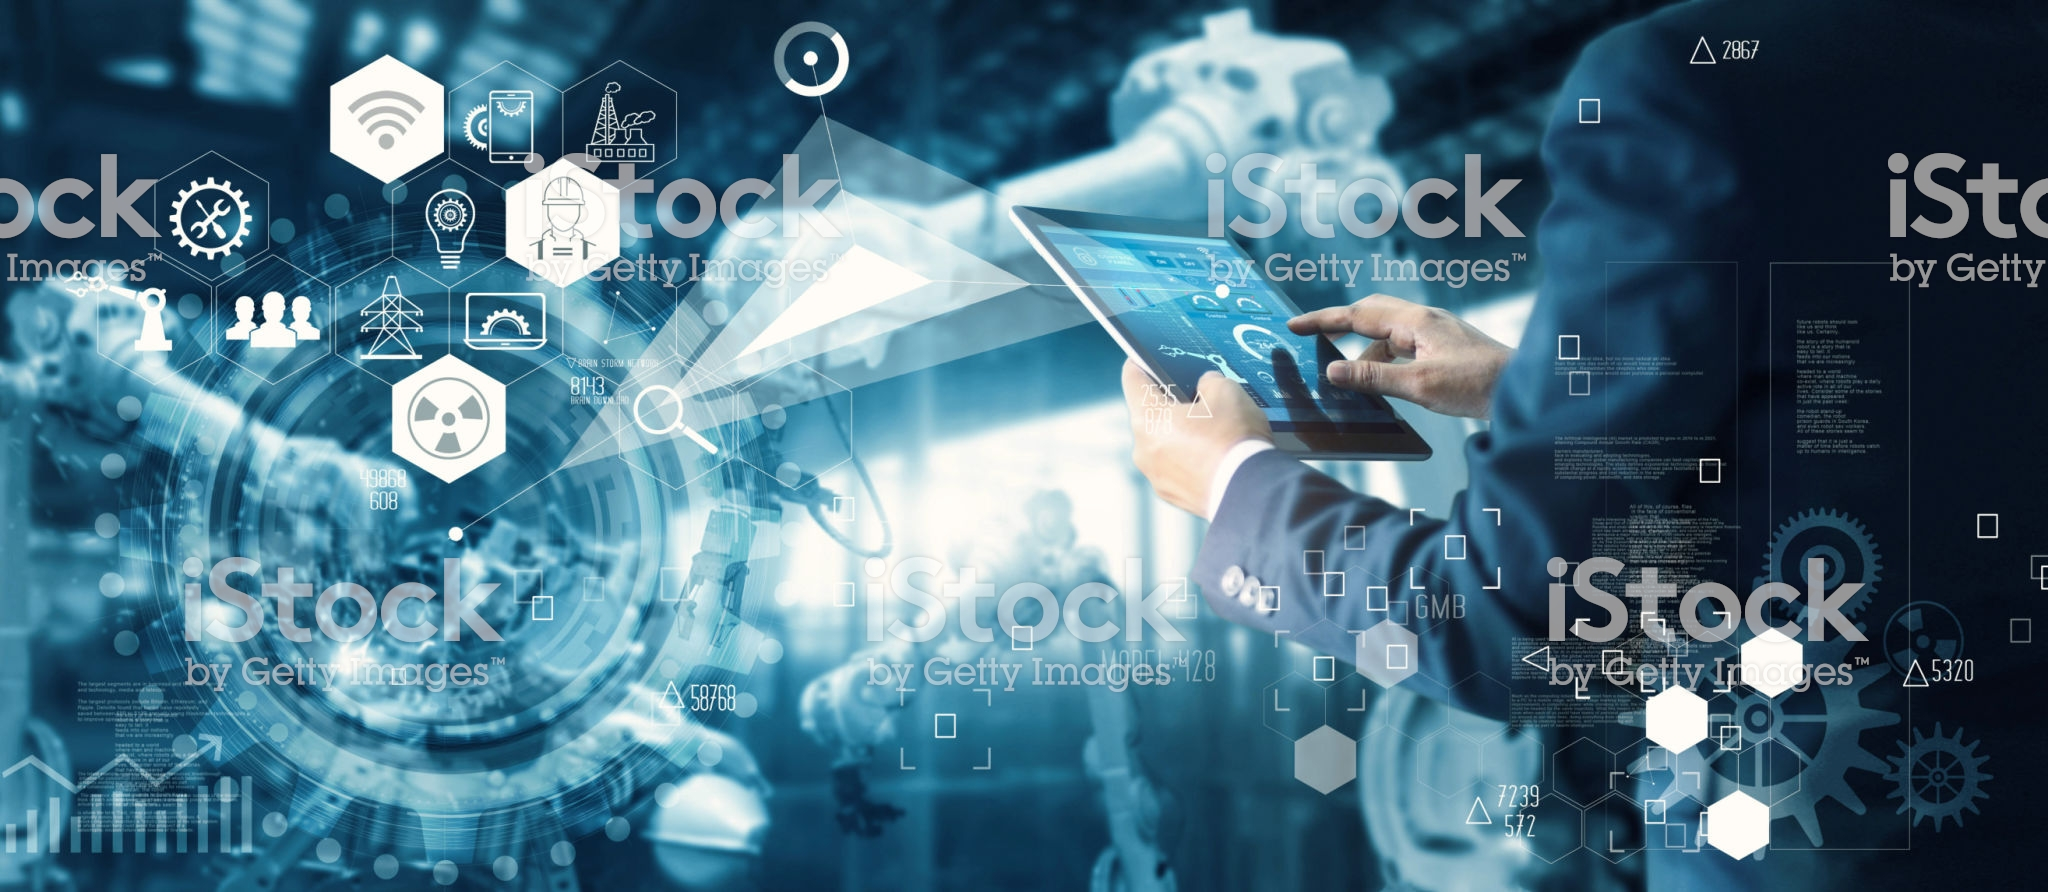
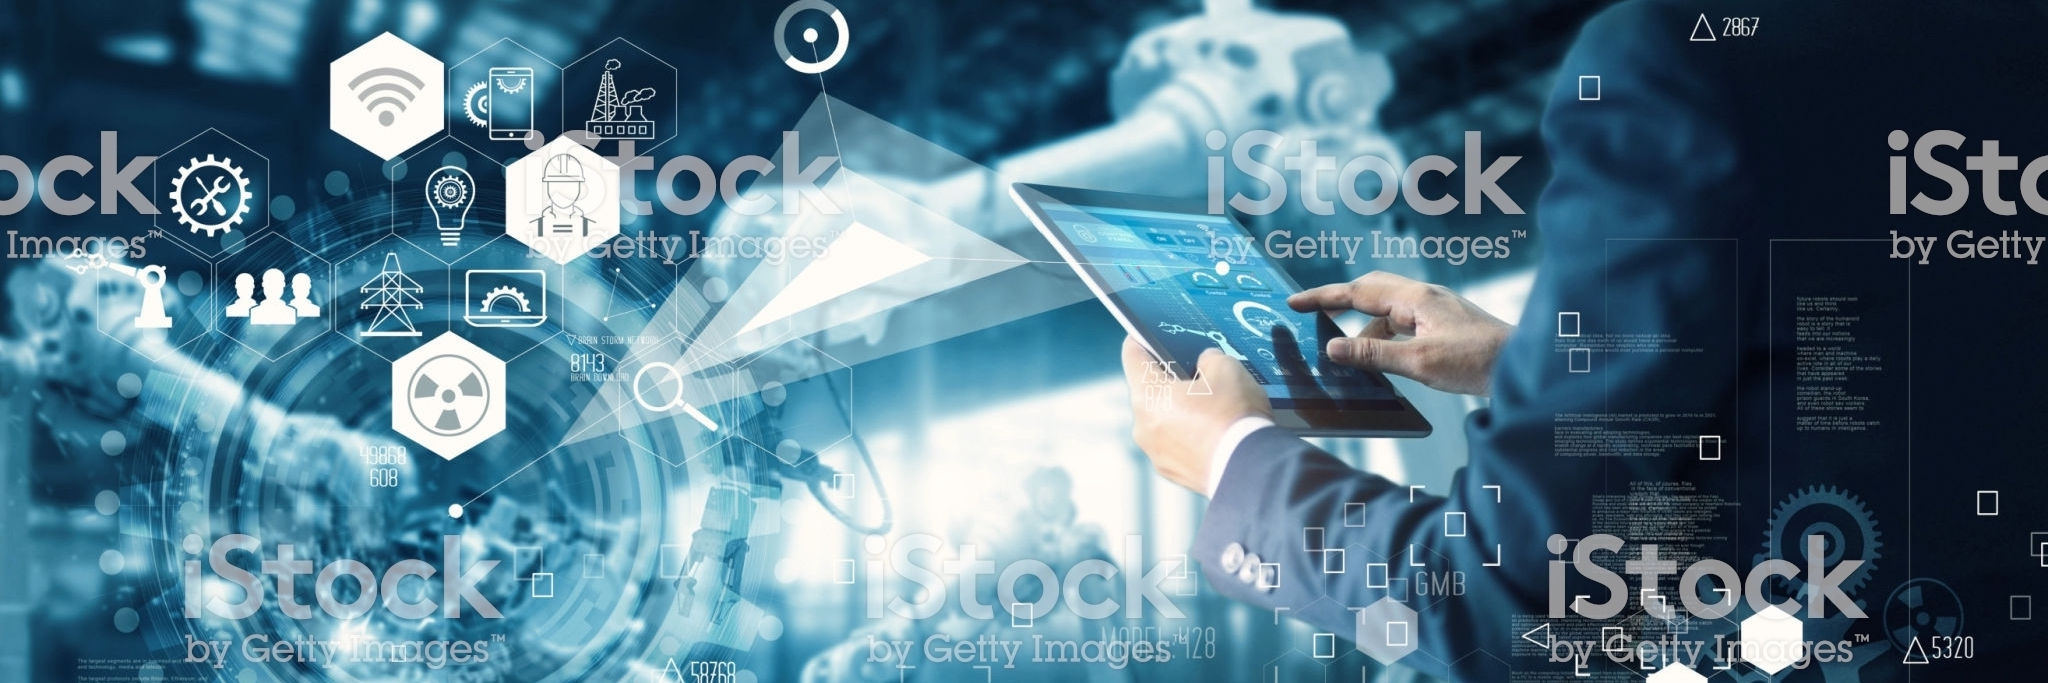
Update

diff --git a/aclark/root/templates/carousel.html b/aclark/root/templates/carousel.html
@@ -11,17 +11,17 @@
         <div class="container">
           <div class="carousel-caption text-left">
             <h1 class="text-white font-weight-bold">Consulting</h1>
-            <p class="lead text-white font-weight-bold">We provide expert level evaluation of technical environments and infrastructure. We advise and assist in the optimization and customization of the latest technology to meet each client's specific needs.</p>
+            <p class="lead text-white font-weight-bold d-none d-md-block">We provide expert level evaluation of technical environments and infrastructure. We advise and assist in the optimization and customization of the latest technology to meet each client's specific needs.</p>
             <p><a class="btn btn-lg btn-primary" href="{% url 'services' %}#consulting" role="button">Learn More</a></p>
           </div>
         </div>
       </div>
       <div class="carousel-item text-left">
-        <img class="img-fluid" style="max-width: 100%; height: auto;" src="{% static 'istockphoto-1065240778-2048x2048.jpg' %}"> 
+        <img class="img-fluid" style="max-width: 100%; height: auto;" src="{% static 'istockphoto-1016968886-2048x2048.jpg' %}"> 
         <div class="container">
           <div class="carousel-caption text-left">
             <h1 class="text-white font-weight-bold">Software</h1>
-            <p class="lead text-white font-weight-bold">We excel at developing custom software and delivering exceptional results.</p>
+            <p class="lead text-white font-weight-bold d-none d-md-block">We excel at developing custom software and delivering exceptional results.</p>
             <p><a class="btn btn-lg btn-primary" href="{% url 'services' %}#software" role="button">Learn More</a></p>
           </div>
         </div>
@@ -31,7 +31,7 @@
         <div class="container">
           <div class="carousel-caption text-left">
             <h1 class="text-white font-weight-bold">Systems</h1>
-            <p class="lead text-white font-weight-bold">We are technology subject matter experts whose expertise includes open source software &amp; related technologies.</p> 
+            <p class="lead text-white font-weight-bold d-none d-md-block">We are technology subject matter experts whose expertise includes open source software &amp; related technologies.</p> 
             <p><a class="btn btn-lg btn-primary" href="{% url 'services' %}#systems" role="button">Learn More</a></p>
           </div>
         </div>

diff --git a/aclark/root/static/carousel.css b/aclark/root/static/carousel.css
@@ -1,27 +1,3 @@
-/* CUSTOMIZE THE CAROUSEL
--------------------------------------------------- */
-
-/* Carousel base class */
-.carousel {
-  margin-bottom: 4rem;
-}
-/* Since positioning the image, we need to help out the caption */
-.carousel-caption {
-  bottom: 3rem;
-  z-index: 10;
-}
-
-/* Declare heights because of positioning of img element */
-.carousel-item {
-  height: 32rem;
-}
-.carousel-item > img {
-  position: absolute;
-  top: 0;
-  left: 0;
-  min-width: 100%;
-  height: 32rem;
-}
 
 .carousel-item:after, #testimonials:after {
     position: absolute;
